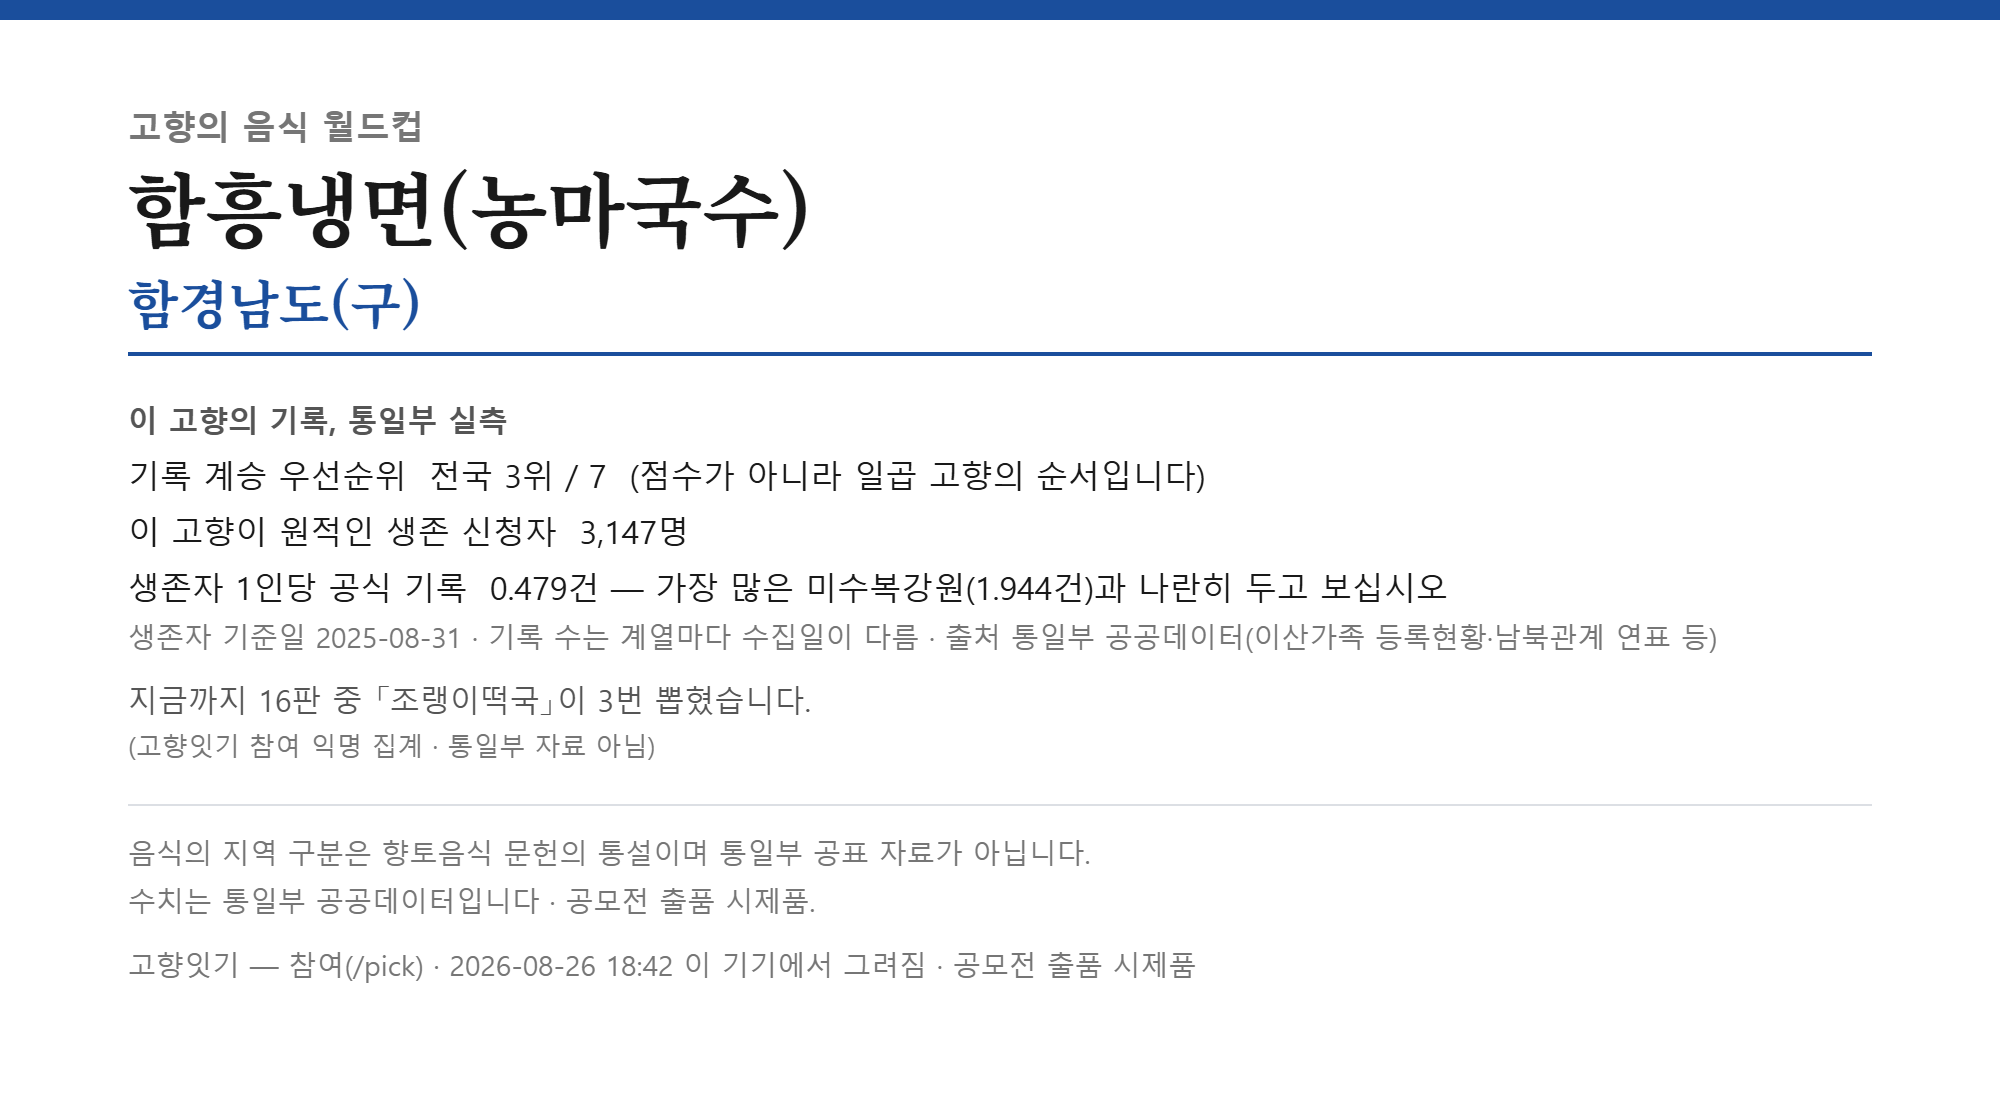
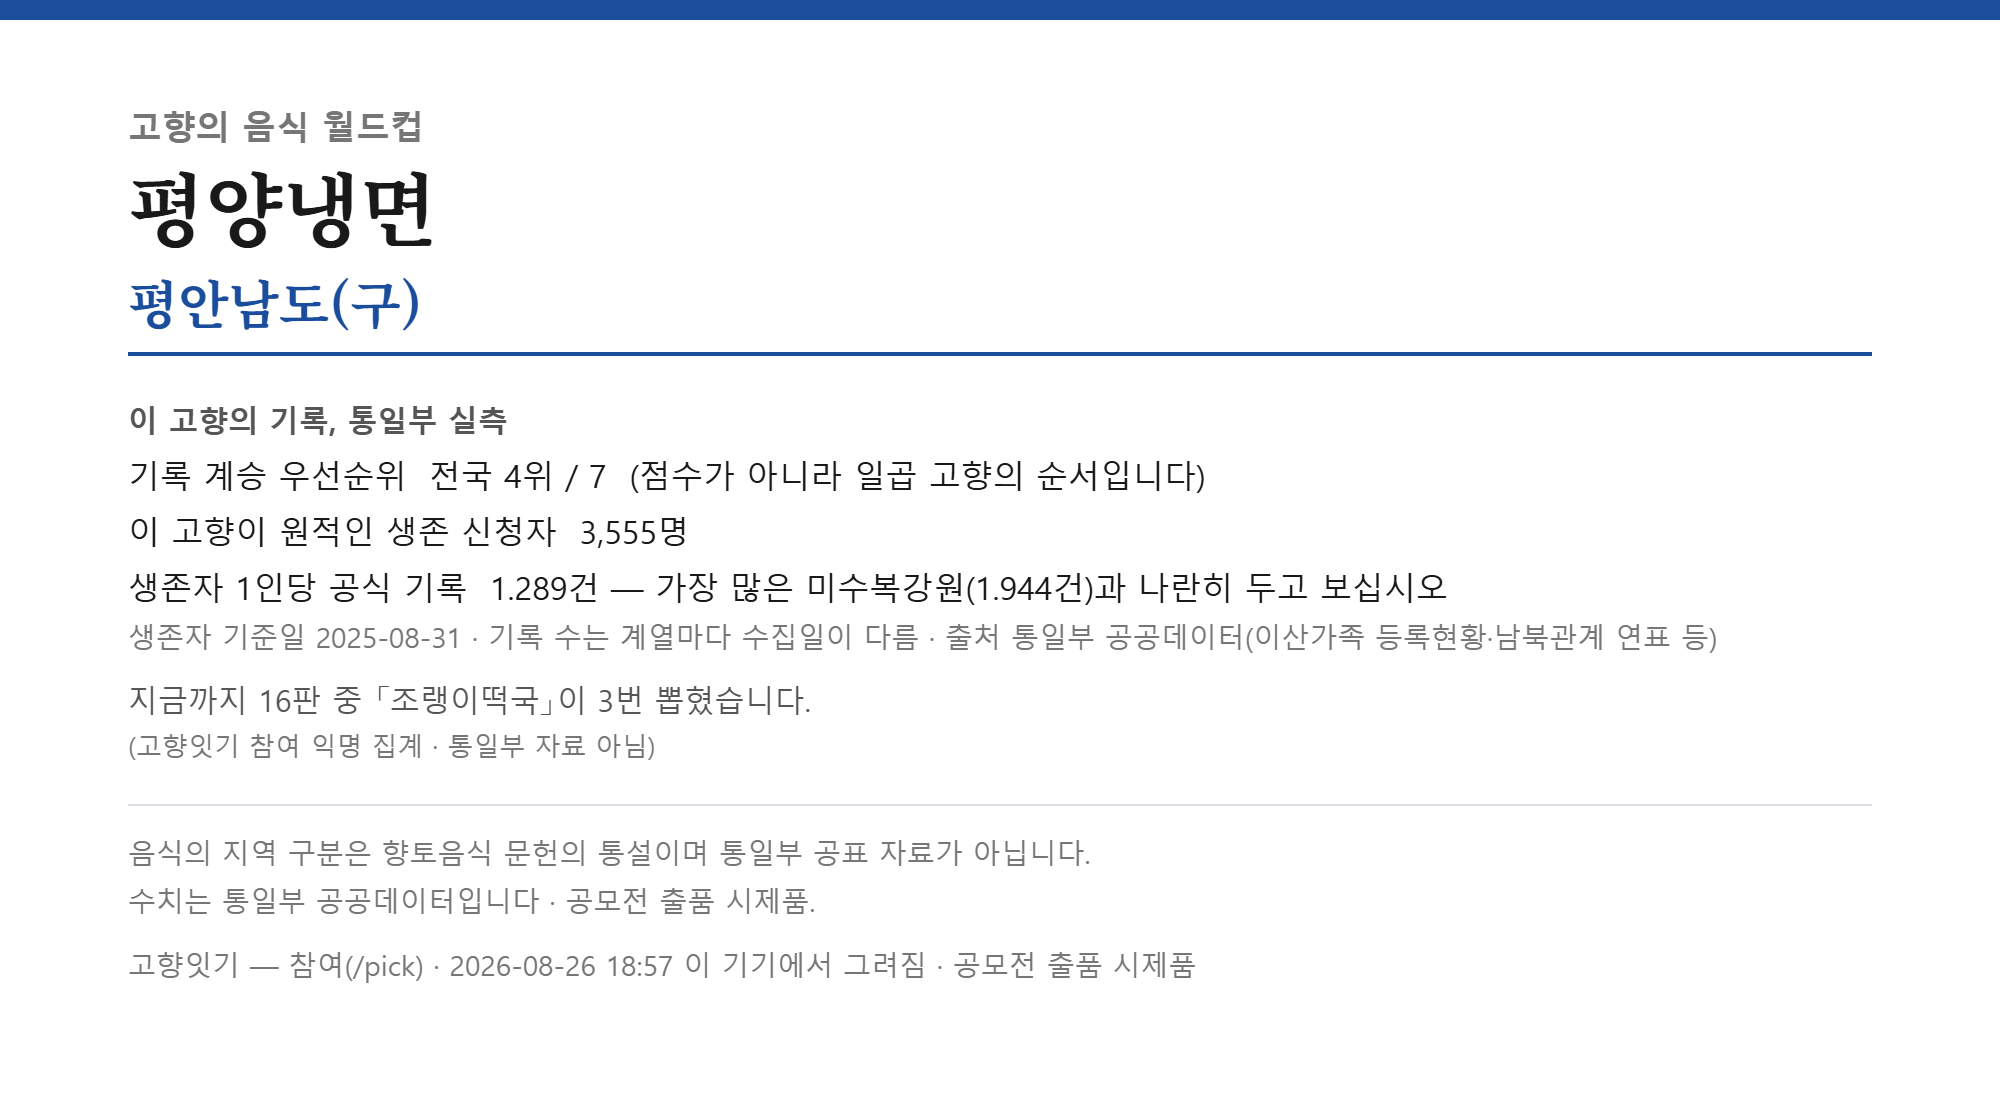
북BTI 축별 비율(MBTI식) + 모바일 좌우 막대
■ 축별 비율 — 「대비 매치」만 센다
지금까지는 결승 우승 항목 하나가 글자를 정해 비율이 없었다.
이제 그 판에서 누른 선택 전부(월드컵 15번)를 세되, **두 항목의 태그가 다른 대결만**
분모로 삼는다 — 국 대 국처럼 붙으면 무엇을 골라도 국이라 취향을 말해 주지 않는다.
  국 78%  ●━━━━━━━━  22% 찬
  국 7번 · 대결 9번 · 찬 2번
  고르신 15번 중 9번이 그런 대결이었습니다.
· 비율 옆에 횟수를 항상 병기(분모가 15가 아니라 4~11이라 감추면 과장이 된다)
· 정확히 반반이거나 대비 0회면 결승 선택으로 정하고 그 사실을 화면에 밝힌다
· 합은 항상 100(pctB = 100 − pctA)
· 산식은 lib/bukbti-ratio.mjs 한 곳 — 화면과 검사 스크립트가 같은 함수를 부른다

■ ★ 밸런스 축은 비율을 내지 않는다 (설계 단계에서 잡은 날조 위험)
지시는 「8문항 답마다 눈/귀 태그, 분모 8 고정」이었으나 실제 자료를 전수 대조하니
두 답의 글자가 다른 문항이 **0개**였다. 게다가 눈 표시는 어떤 답을 골라도 최대 1개라
비율을 그리면 눈이 구조적으로 50%를 못 넘는다 — 그리는 순간 날조다.
글자는 기존과 100% 동일(기록 유형)하게 두고 그 자리에 이유를 적었다.
누가 나중에 태그를 붙이면 검사가 알린다.

■ 모바일 좌우 막대 (사용자 지적)
375px 에서 두 글자가 세로로 쌓여 스크롤이 길어지던 것을 한 줄 좌우 양끝으로.
· 폭을 먹던 「내 글자」 배지 글자를 화면에서 빼고 ● 도형 + 굵기 + 남색 밑줄 3중 형태 신호로
  (색만으로 구분하지 않는다). 읽어 주는 기계에는 sr-only 로 남긴다
· 실측 375px: 네 축 전부 한 줄(좌 37~55 · 우 306~327), 가로 넘침 0

■ 자리별 설명·유형 요약·순위 (사용자 요구)
「자세히 보기」 펼침에 네 자리가 각각 무엇을 재고 어느 게임에서 왔는지.
유형 코드 옆 한 줄 요약 16종. 분포에 비율과 내 유형 순위.
「몇 명」이 아니라 「완성 기록 누적」이라는 문구는 그대로 지킨다.

■ 개인정보
비율은 기기 안에만 둔다 — 서버는 익명 유형 4글자만(스키마 무변경, 검사로 고정).
저장분에 항목 id·이름을 남기지 않고, 글자만 갱신되는 경로에서는 옛 비율을 지운다
(안 지우면 옛 판의 78%가 새 글자에 붙는다).

검증: 빌드 0오류 · eval 48/48 · wild 108/108 · 이모지 0 · devnote 0건 ·
verify-bukbti 90/90(28→62건 추가) · verify-pick 127/127 · verify-deck 96/96 ·
verify-studio 133/133 · guide-check 36/36

diff --git a/frontend/src/data/bukbti.ts b/frontend/src/data/bukbti.ts
@@ -42,7 +42,7 @@ export const BUKBTI_RATIO_HOW_SHORT = '서로 다른 쪽이 맞붙은 대결만 
  *  대결 수(분모)가 고르시는 방식에 따라 달라진다 — 같은 대진 규칙으로 120만 판을
  *  돌려 보면 네 번에서 열한 번 사이가 98.4%였고(중앙 여섯 · 최소 한 번 · 최대 열다섯),
  *  한쪽을 꾸준히 고르실수록 적어지고 갈려서 고르실수록 많아진다.
- *  옛 문구(「여섯에서 여덟」)는 이 분포의 65%밖에 덮지 못해 바로잡았다. */
+ *  옛 문구는 이 분포의 65%밖에 덮지 못해 바로잡았다(scripts/verify-bukbti.mjs [15] 가 되살아남을 막는다). */
 export const BUKBTI_RATIO_SMALL_N =
   '대결 수는 판마다 다릅니다 — 대개 네 번에서 열한 번 사이이고, 대진이 한쪽으로 몰리면 그보다 적어집니다. 한 번의 선택이 비율을 크게 움직여서, 비율 옆에 횟수를 늘 함께 적었습니다.'
 
